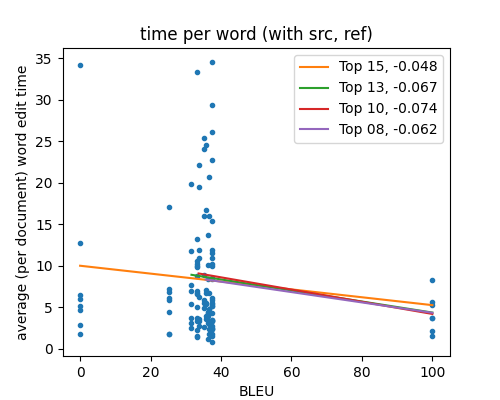
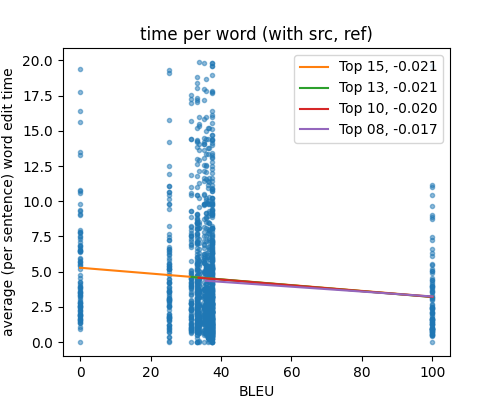
filter lines, not whole documents

diff --git a/src/processing/exp1_top.py b/src/processing/exp1_top.py
@@ -7,33 +7,41 @@ import matplotlib.pyplot as plt
 from sklearn.linear_model import LinearRegression
 
 parser = argparse.ArgumentParser()
-parser.add_argument('-s', '--per-sent', action='store_true', default=False)
-parser.add_argument('-m', '--mt-only', action='store_true', default=False)
-parser.add_argument('-a', '--aggregate-documents', action='store_true', default=False)
-args = parser.parse_known_args()[0]
+parser.add_argument('-s', '--per-sent', action='store_true')
+parser.add_argument('-m', '--mt-only', action='store_true')
+parser.add_argument('-a', '--aggregate-documents', action='store_true')
+args = parser.parse_args()
 
 data = load_mx()
 SKIP_SRC_REF = args.mt_only
 AGGREGATE_DOCUMENTS = args.aggregate_documents
 PER_SENT = args.per_sent
-MAX_WORD_TIME = 40 
+MAX_WORD_TIME = 20
 MAX_SENT_TIME = MAX_WORD_TIME*20
 
-mt_times = {k:[] for k in sorted(MT_BLEU.keys(), key=lambda x: MT_BLEU[x][0])}
+# compute per-model data
+mt_times = {k: [] for k in sorted(MT_BLEU.keys(), key=lambda x: MT_BLEU[x][0])}
 for doc in data:
-    if not AGGREGATE_DOCUMENTS:
-        mt_times[doc.mt_name] += [x.edit_time_word for x in doc.lines if x.edit_time_word <= MAX_WORD_TIME]
+    if AGGREGATE_DOCUMENTS:
+        if PER_SENT:
+            doc_time_avg = np.average(
+                [x.edit_time for x in doc.lines if x.edit_time <= MAX_SENT_TIME]
+            )
+            mt_times[doc.mt_name].append(doc_time_avg)
+        else:
+            doc_time_avg = np.average(
+                [x.edit_time_word for x in doc.lines if x.edit_time_word <= MAX_WORD_TIME]
+            )
+            mt_times[doc.mt_name].append(doc_time_avg)
     else:
         if PER_SENT:
-            doc_time_avg = np.average([x.edit_time for x in doc.lines])
-            if doc_time_avg <= MAX_SENT_TIME:
-                mt_times[doc.mt_name].append(doc_time_avg)
+            mt_times[doc.mt_name] += [x.edit_time for x in doc.lines if x.edit_time <= MAX_SENT_TIME]
         else:
-            doc_time_avg = np.average([x.edit_time_word for x in doc.lines])
-            if doc_time_avg <= MAX_WORD_TIME:
-                mt_times[doc.mt_name].append(doc_time_avg)
+            mt_times[doc.mt_name] += [x.edit_time_word for x in doc.lines if x.edit_time_word <= MAX_WORD_TIME]
+
 
 def top_n(n, points=False):
+    # actual value plotting
     bleu_time = []
     for mt_name in list(mt_times.keys())[-n:]:
         bleus = MT_BLEU[mt_name]
@@ -41,13 +49,12 @@ def top_n(n, points=False):
             continue
         bleu_time += [(bleus[0], v) for v in mt_times[mt_name]]
 
-
     xval = [x[0] for x in bleu_time]
     yval = [x[1] for x in bleu_time]
 
     # linear fit
-    coef = np.polyfit(xval,yval,1)
-    poly1d_fn = np.poly1d(coef) 
+    coef = np.polyfit(xval, yval, 1)
+    poly1d_fn = np.poly1d(coef)
 
     if points:
         plt.plot(xval, yval, '.', alpha=0.5)
@@ -58,17 +65,20 @@ def top_n(n, points=False):
         ('(without src, ref)' if SKIP_SRC_REF else '(with src, ref)')
     )
 
-plt.figure(figsize=(5,4))
+
+# misc. plot parameters
+plt.figure(figsize=(5, 4))
 top_n(15, points=True)
 top_n(13)
 top_n(10)
 top_n(8)
 plt.legend()
 plt.title(
-        ('time per line ' if PER_SENT else 'time per word ') +
-        ('(without src, ref)' if SKIP_SRC_REF else '(with src, ref)')
+    ('time per line ' if PER_SENT else 'time per word ') +
+    ('(without src, ref)' if SKIP_SRC_REF else '(with src, ref)')
 )
 plt.xlabel('BLEU')
 perwhat = 'document' if AGGREGATE_DOCUMENTS else 'sentence'
-plt.ylabel(f'average (per {perwhat}) line edit time' if PER_SENT else f'average (per {perwhat}) word edit time')
+plt.ylabel(
+    f'average (per {perwhat}) line edit time' if PER_SENT else f'average (per {perwhat}) word edit time')
 plt.show()

diff --git a/src/processing/exp2_models.py b/src/processing/exp2_models.py
@@ -7,29 +7,27 @@ import matplotlib.pyplot as plt
 from sklearn.linear_model import LinearRegression
 
 parser = argparse.ArgumentParser()
-parser.add_argument('-s', '--per-sent', action='store_true', default=True)
-args = parser.parse_known_args()[0]
+parser.add_argument('-s', '--per-sent', action='store_true')
+args = parser.parse_args()
 
 data = load_mx()
 PER_SENT = args.per_sent
-MAX_WORD_TIME = 40
+MAX_WORD_TIME = 20
 MAX_SENT_TIME = MAX_WORD_TIME*20
 
 MT_ORDER = sorted(MT_BLEU.keys(), key=lambda x: MT_BLEU[x][0])
 
+# compute per-model data
 mt_times = {k: [] for k in MT_ORDER}
 for doc in data:
     if PER_SENT:
-        doc_time_avg = np.average([x.edit_time for x in doc.lines])
-        if doc_time_avg <= MAX_SENT_TIME:
-            mt_times[doc.mt_name].append(doc_time_avg)
+        mt_times[doc.mt_name] += [x.edit_time for x in doc.lines if x.edit_time <= MAX_SENT_TIME]
     else:
-        doc_time_avg = np.average([x.edit_time_word for x in doc.lines])
-        if doc_time_avg <= MAX_WORD_TIME:
-            mt_times[doc.mt_name].append(doc_time_avg)
+        mt_times[doc.mt_name] += [x.edit_time_word for x in doc.lines if x.edit_time_word <= MAX_WORD_TIME]
 
 
 def top_all():
+    # actual value plotting
     bleu_time = []
     for i, mt_name in enumerate(mt_times.keys()):
         bleus = MT_BLEU[mt_name]
@@ -41,7 +39,7 @@ def top_all():
     # linear fit
     coef = np.polyfit(xval, yval, 1)
     poly1d_fn = np.poly1d(coef)
-    plt.plot(xval, yval, 'o', alpha=0.4)
+    plt.plot(xval, yval, 'o', alpha=0.1)
     plt.plot(xval, poly1d_fn(xval), label=f'Coef: {coef[0]:>6.3f}')
     plt.xticks(range(len(MT_ORDER)), MT_ORDER, rotation=90)
     explanation = (
@@ -51,13 +49,21 @@ def top_all():
     )
 
 
+# misc. plot parameters
 plt.figure(figsize=(5, 4))
 top_all()
 plt.legend()
-plt.title(
-    ('time per line ' if PER_SENT else 'time per word ') +
-    '(with src, ref)'
-)
-plt.ylabel('average (per document) line edit time' if PER_SENT else 'average (per document) word edit time')
+TITLE = ('time per line ' if PER_SENT else 'time per word ') + '(with src, ref)'
+plt.title(TITLE)
+plt.ylabel('line edit time' if PER_SENT else 'word edit time')
 plt.tight_layout()
 plt.show()
+
+
+# print model averages
+print(TITLE)
+print('\n'.join([
+    f'{name:>10} {np.average(v):6.2f}'
+    for name, v
+    in sorted(mt_times.items(), key=lambda x: np.average(x[1]))
+]))

diff --git a/src/processing/utils.py b/src/processing/utils.py
@@ -1,19 +1,19 @@
 #!/usr/bin/env python3
-
+# PE, WMT0818
 MT_BLEU = {
     'src': (0, 0),
     'ref': (100, 100),
-    'm01': (25.35, 19.07), 
-    'm02': (31.61, 22.44), 
-    'm03': (33.09, 23.86), 
-    'm04': (33.63, 24.42), 
+    'm01': (25.35, 19.07),
+    'm02': (31.61, 22.44),
+    'm03': (33.09, 23.86),
+    'm04': (33.63, 24.42),
     'm05': (35.22, 26.25),
-    'm06': (35.68, 26.64), 
-    'm07': (36.58, 28.14), 
-    'm08': (36.41, 28.84), 
-    'm09': (37.40, 28.72), 
-    'm10': (37.44, 28.95), 
+    'm06': (35.68, 26.64),
+    'm07': (36.58, 28.14),
+    'm08': (36.41, 28.84),
+    'm09': (37.40, 28.72),
+    'm10': (37.44, 28.95),
     'm11': (37.37, 28.46),
     'google': (37.56, 26.06),
-    'microsoft': (33.06, 26.30),  
+    'microsoft': (33.06, 26.30),
 }
